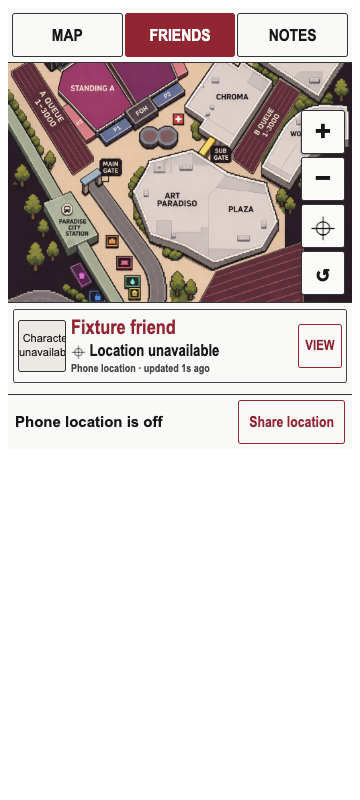
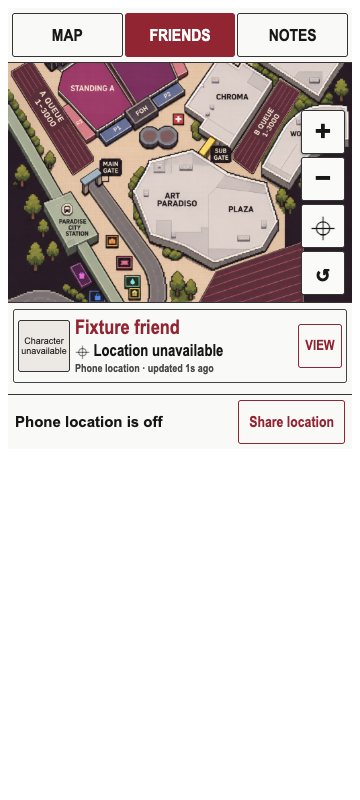
fix(venue): fix the 360 friend fallback and align the landmark gate

Changed region(s): [[0.0611, 0.375, 0.6111, 0.4688]]

diff --git a/frontend/src/features/paradise-city-map/ui/paradise-city-map.css b/frontend/src/features/paradise-city-map/ui/paradise-city-map.css
@@ -3,10 +3,10 @@
 .pc-map-tabs{display:flex;gap:2px;padding:5px 4px;flex-shrink:0;border-bottom:1.5px solid #333}.pc-map-tabs button{flex:1;min-width:0;font-size:18px}.pc-map-tabs button[aria-selected=true]{background:var(--pc-red);border-color:var(--pc-red);color:#fff}.pc-tab-panel{min-height:260px;display:flex;flex:1 0 auto;flex-direction:column}.pc-fixture-notice{padding:3px 7px;font-size:11px;line-height:14px;border-bottom:1px solid #8e8e8e;background:#f0ede5;flex-shrink:0}
 .pc-map-canvas{position:relative;flex:1;min-height:300px;isolation:isolate;border-bottom:1.5px solid #333;background:#292128}.pc-map-canvas--compact{flex:0 0 240px;min-height:190px;max-height:36vh}.pc-map-viewport{position:absolute;inset:0;overflow:auto;overscroll-behavior:contain;scrollbar-width:none;touch-action:pan-x pan-y;cursor:grab}.pc-map-viewport:active{cursor:grabbing}.pc-map-plane{position:relative;min-width:0;margin:auto}.pc-map-plane>img{display:block;width:100%;height:100%;max-width:none;user-select:none;pointer-events:none}.pc-map-controls{position:absolute;right:7px;bottom:7px;display:flex;flex-direction:column;gap:3px;z-index:2}.pc-map-controls button{width:44px;height:44px;min-height:44px;padding:0;background:#fafaf8;font-family:Arial,sans-serif;font-size:28px;line-height:1;box-shadow:0 1px 2px #2227}.pc-map-controls button:nth-child(n+4){font-size:23px}.pc-map-controls button:disabled{display:none}
 .pc-map-plane .pc-landmark,.pc-map-plane .pc-person-marker,.pc-map-plane .pc-note-marker{position:absolute;transform:translate(-50%,-70%);z-index:1;padding:0;background:transparent;border:0;box-shadow:none;min-width:44px;min-height:44px;overflow:visible}.pc-landmark>span:first-child{opacity:0;font-size:33px;color:#922532;text-shadow:1px 1px #fff,-1px -1px #fff}.pc-landmark .pc-marker-label{display:none}.pc-landmark:hover>span,.pc-landmark:focus-visible>span,.pc-landmark.is-selected>span{opacity:1}.pc-landmark:focus-visible .pc-marker-label,.pc-landmark.is-selected .pc-marker-label{display:block}.pc-marker-label{display:block;white-space:nowrap;margin:0 auto;padding:1px 5px;border:1px solid #222;border-radius:4px;width:max-content;max-width:180px;background:#fafaf8;color:#111;font-family:Roboto,Arial,sans-serif;font-size:12px;line-height:16px;font-weight:750}.pc-marker-portraits{display:flex;justify-content:center;align-items:flex-end;filter:drop-shadow(1px 1px 0 #fff) drop-shadow(-1px -1px 0 #fff);height:49px}.pc-marker-portraits>span{width:48px;height:48px;overflow:hidden}.pc-marker-portraits canvas,.pc-marker-portraits img{width:48px!important;height:48px!important;image-rendering:pixelated}.pc-marker-portraits--cluster>span{width:33px;margin-left:-7px}.pc-marker-portraits--cluster>span:first-child{margin-left:0}.pc-self-marker{pointer-events:none;min-width:44px}.pc-self-marker .pc-marker-portraits{width:52px;height:52px;border:3px double #111;border-radius:50%;background:#fff}.pc-map-plane .pc-note-marker{background:#fbfbf9;border:2px solid #222;border-radius:3px;min-width:44px;min-height:44px;padding:3px 6px;font:700 16px/22px Roboto,Arial,sans-serif}.pc-map-plane .pc-note-marker::after{content:'';position:absolute;left:15px;bottom:-8px;width:11px;height:11px;transform:rotate(45deg);background:#fbfbf9;border-right:2px solid #222;border-bottom:2px solid #222}.pc-map-plane .pc-note-marker.is-selected{border:3px solid #922532}.pc-map-plane .pc-note-marker:focus-visible{outline-offset:5px}
-.pc-sheet{flex:0 0 auto;min-width:0;padding:7px;border-top:1px solid #333;background:var(--pc-paper)}.pc-sheet>header{display:flex;align-items:center;justify-content:space-between;gap:5px;min-height:30px;margin-bottom:6px}.pc-sheet>header h2{font-size:20px}.pc-sheet>header>button{margin-left:auto;min-height:44px;height:44px;min-width:44px;padding:0;border:0;background:transparent;font:30px/1 Arial,sans-serif}.pc-sheet>header .pc-close{position:absolute;right:6px}.pc-sheet:has(.pc-friend-detail)>header{min-height:0;margin-bottom:0}.pc-friend-detail{display:flex;gap:12px;align-items:center;margin-bottom:7px;padding-right:12px}.pc-friend-detail p{margin-top:3px}.pc-friend-detail small{display:block;margin-top:3px}.pc-portrait{width:64px;height:64px;flex:0 0 64px;display:grid;place-items:center;overflow:hidden;border:1.5px solid #333;border-radius:3px;background:#ece8e3;font-size:11px;text-align:center}.pc-portrait canvas,.pc-portrait img{max-width:100%;max-height:100%;image-rendering:pixelated}.pc-portrait--large{width:80px;height:84px;flex-basis:80px}.pc-portrait--large canvas,.pc-portrait--large img{width:80px!important;height:80px!important}.pc-name{color:var(--pc-red);font-size:22px;line-height:1.1}.pc-actions{display:flex;gap:10px;margin-top:7px}.pc-actions>button{flex:1;min-width:0}.pc-place-picker{display:flex;align-items:center;gap:7px;margin:6px 0;font-size:15px}.pc-place-picker select{flex:1;min-width:0}.pc-sheet>label:not(.pc-place-picker){display:flex;gap:6px;align-items:center;margin-top:7px}.pc-sheet>label select{flex:1;min-width:0}
+.pc-sheet{flex:0 0 auto;min-width:0;padding:7px;border-top:1px solid #333;background:var(--pc-paper)}.pc-sheet>header{display:flex;align-items:center;justify-content:space-between;gap:5px;min-height:30px;margin-bottom:6px}.pc-sheet>header h2{font-size:20px}.pc-sheet>header>button{margin-left:auto;min-height:44px;height:44px;min-width:44px;padding:0;border:0;background:transparent;font:30px/1 Arial,sans-serif}.pc-sheet>header .pc-close{position:absolute;right:6px}.pc-sheet:has(.pc-friend-detail)>header{min-height:0;margin-bottom:0}.pc-friend-detail{display:flex;gap:12px;align-items:center;margin-bottom:7px;padding-right:12px}.pc-friend-detail p{margin-top:3px}.pc-friend-detail small{display:block;margin-top:3px}.pc-portrait{width:64px;height:64px;flex:0 0 64px;display:grid;place-items:center;overflow:hidden;border:1.5px solid #333;border-radius:3px;background:#ece8e3;font-size:11px;text-align:center}.pc-portrait-fallback{display:block;max-width:100%;max-height:100%;padding:1px;font-size:9px;line-height:10px;overflow-wrap:anywhere;text-align:center}.pc-portrait canvas,.pc-portrait img{max-width:100%;max-height:100%;image-rendering:pixelated}.pc-portrait--large{width:80px;height:84px;flex-basis:80px}.pc-portrait--large canvas,.pc-portrait--large img{width:80px!important;height:80px!important}.pc-name{color:var(--pc-red);font-size:22px;line-height:1.1}.pc-actions{display:flex;gap:10px;margin-top:7px}.pc-actions>button{flex:1;min-width:0}.pc-place-picker{display:flex;align-items:center;gap:7px;margin:6px 0;font-size:15px}.pc-place-picker select{flex:1;min-width:0}.pc-sheet>label:not(.pc-place-picker){display:flex;gap:6px;align-items:center;margin-top:7px}.pc-sheet>label select{flex:1;min-width:0}
 .pc-friends{padding:6px 5px;flex:0 0 auto}.pc-friend-row{display:flex;align-items:center;gap:7px;min-height:74px;padding:4px 6px;border:1px solid #444;border-radius:3px;margin-bottom:5px}.pc-friend-copy{min-width:0;flex:1}.pc-friend-copy .pc-friend-place{display:block;font-size:16px;line-height:20px;margin-top:2px}.pc-friend-copy small{display:block;font-size:12px;line-height:16px}.pc-friend-row>.pc-portrait{width:56px;height:56px;flex-basis:56px}.pc-friend-row>.pc-portrait canvas,.pc-friend-row>.pc-portrait img{width:56px!important;height:56px!important}.pc-friend-row>button{font-size:14px;color:var(--pc-red);border-color:var(--pc-red);padding:6px}.pc-friend-row .pc-name-button{display:block;width:100%;padding:0;min-height:44px;min-width:0;border:0;background:transparent;text-align:left}.pc-cluster-person{display:flex;align-items:center;gap:8px;width:100%;margin-top:5px}.pc-cluster-person canvas,.pc-cluster-person img{width:48px!important;height:48px!important}.pc-location-requests{padding:10px 6px;border-top:1px solid #444}.pc-location-requests h2{font-size:20px;margin:0 0 8px}.pc-location-requests article{padding:8px 0}.pc-location-requests p{margin:0 0 6px;overflow-wrap:anywhere}
 .pc-note-card{display:grid;grid-template-columns:repeat(3,minmax(0,1fr));gap:4px;padding:4px;border:1px solid #555;border-radius:3px;margin-bottom:6px}.pc-note-card>.pc-note-heading,.pc-note-card>.pc-note-reply{grid-column:1/-1}.pc-note-card>.pc-actions{grid-column:1/-1;margin-top:0;gap:6px}.pc-note-card>.pc-actions>button{font-size:16px;padding:7px 3px}.pc-note-card:has(>button)>.pc-actions{grid-column:1/3;grid-row:2}.pc-note-card>button{grid-column:3;grid-row:2;font-size:14px;padding:7px 3px}.pc-note-heading,.pc-note-reply{display:flex;gap:8px;align-items:flex-start}.pc-note-heading>div:last-child{flex:1;min-width:0;font-size:16px;line-height:20px}.pc-note-author{display:flex;align-items:baseline;flex-wrap:wrap;gap:2px 8px}.pc-note-heading p{overflow-wrap:anywhere;margin:2px 0;font-size:16px;line-height:20px}.pc-note-heading .pc-name{font-size:19px}.pc-note-heading small{font-size:13px}.pc-note-reply{border-top:1px solid #aaa;margin:8px 0 0 18px;padding-top:7px;font-size:15px}.pc-note-reply .pc-portrait{width:44px;height:44px;flex-basis:44px}.pc-note-reply strong{font-size:14px}.pc-note-reply p{margin-top:3px;overflow-wrap:anywhere}.pc-composer>header{position:relative;min-height:30px;padding-right:44px}.pc-composer>header h2{font-size:26px}.pc-composer>header>button{position:absolute;right:0;top:-7px}.pc-composer textarea{width:100%;height:100px;min-height:100px;resize:vertical;display:block;border:1.5px solid #333;border-radius:3px;padding:9px;font-size:18px;line-height:24px;background:#fff}.pc-composer>label{display:block!important}.pc-composer .pc-place-picker{display:flex!important}.pc-composer fieldset{border:0;padding:0;display:flex;gap:5px;align-items:center;margin:5px 0;min-width:0}.pc-composer legend{float:left;width:105px;font-size:16px;font-weight:650;padding:0;line-height:44px}.pc-composer fieldset button{flex:1;min-width:0;font-size:16px;padding:7px 3px}.pc-composer button[aria-pressed=true]{background:#171717;color:#fff}
 .pc-sharing{display:flex;align-items:center;justify-content:space-between;gap:7px;flex-shrink:0;padding:5px 7px;border-top:1px solid #333;min-height:52px}.pc-sharing strong{font-size:15px;line-height:18px}.pc-sharing button{min-height:44px;height:44px;font-size:15px;border-color:var(--pc-red);color:var(--pc-red)}.pc-sharing-consent{padding:10px;border-top:1px solid #333;font-size:16px}.pc-sharing-consent label{display:flex;align-items:center;gap:8px;margin:8px 0;min-height:44px}.pc-sharing-consent input{width:22px;height:22px;accent-color:#922532}.pc-notice{padding:6px 8px;border-top:1px solid #aaa;font-size:14px;line-height:18px}.pc-meeting-slot{min-width:0;flex:0 0 auto}
-@media(max-width:370px){.pc-friend-row{gap:5px;padding:6px 4px}.pc-friend-row>.pc-portrait{width:48px;height:52px;flex-basis:48px}.pc-name{font-size:20px}.pc-friend-copy small{font-size:11px}.pc-composer legend{width:90px;font-size:14px}.pc-composer fieldset button{font-size:14px}.pc-map-tabs button{font-size:17px}.pc-actions{gap:7px}}
+@media(max-width:370px){.pc-friend-row{gap:5px;padding:6px 4px}.pc-friend-row>.pc-portrait{width:52px;height:52px;flex-basis:52px}.pc-name{font-size:20px}.pc-friend-copy small{font-size:11px}.pc-composer legend{width:90px;font-size:14px}.pc-composer fieldset button{font-size:14px}.pc-map-tabs button{font-size:17px}.pc-actions{gap:7px}}
 @media(max-height:500px){.pc-map-canvas{min-height:200px}.pc-map-canvas--compact{min-height:160px;max-height:none;flex-basis:160px}.pc-map{min-height:250px}.pc-map-controls{flex-direction:row;gap:2px;right:5px;bottom:5px}.pc-map-controls button{width:44px;height:44px;font-size:24px}}
 @media(forced-colors:active){.pc-map button{border:2px solid ButtonText}.pc-map button[aria-selected=true],.pc-map button[aria-pressed=true]{outline:2px solid Highlight}.pc-map-plane img{forced-color-adjust:none}.pc-marker-label{background:Canvas;color:CanvasText}}

diff --git a/frontend/src/app/__tests__/venue-shell-ports/production.test.ts b/frontend/src/app/__tests__/venue-shell-ports/production.test.ts
@@ -45,7 +45,7 @@ const stops: (() => void)[] = []
 beforeEach(() => { vi.stubGlobal('crypto', webcrypto) })
 afterEach(() => { for (const stop of stops.splice(0).reverse()) stop(); vi.restoreAllMocks(); vi.unstubAllGlobals() })
 
-async function fixture(options: { omitPeople?: boolean } = {}) {
+async function fixture(options: { omitPeople?: boolean; denyLandmarks?: boolean } = {}) {
   const bootstrap = await checkedBootstrap()
   const participant = (bootstrap.document as { participant?: { profile?: { avatar?: unknown } } } | undefined)?.participant
   const auth = createSessionController({ eventId, fetch: async () => { throw Error('No live transport') },
@@ -59,7 +59,7 @@ async function fixture(options: { omitPeople?: boolean } = {}) {
   const http = { async request<T>(input: HttpRequest<T>): Promise<HttpResult<T>> {
     calls.push(input.path)
     const value = input.path.endsWith('/venue/location') ? snapshot()
-      : input.path.endsWith('/venue/landmarks') ? landmarkList()
+      : input.path.endsWith('/venue/landmarks') ? (() => { if (options.denyLandmarks) throw Error('Reviewed landmark authority denied'); return landmarkList() })()
         : input.path.includes('/people/') ? { user_id: input.path.split('/').at(-1), display_name: 'Fixture friend', bio: null, avatar: participant?.profile?.avatar }
           : (() => { throw Error(`Unexpected request ${input.path}`) })()
     return { data: input.decode(value, { scope, status: 200, path: input.path }), scope }
@@ -100,6 +100,19 @@ it('names friends only from the actor snapshot and an authorized public profile'
   expect(await ports.start(f.lifetime.signal)).toBe(true)
   await vi.waitFor(() => expect(ports.capabilities.read()?.friends[0]?.displayName).toBe('Fixture friend'))
   expect(ports.capabilities.read()?.friends[0]?.userId).toBe(friendId)
+})
+
+it('keeps the independent location capability when reviewed landmark authority is denied', async () => {
+  const f = await fixture({ denyLandmarks: true })
+  expect(await f.sources.loadLandmarks(f.lifetime.signal)).toBe(false)
+  expect(f.sources.meetingPlaces.size).toBe(0)
+  const ports = production(f.sources)
+  stops.push(() => ports.dispose())
+  expect(await ports.start(f.lifetime.signal)).toBe(true)
+  const state = ports.capabilities.read()
+  expect(state).not.toBeNull()
+  expect(state?.rights.checkIn).toEqual([])
+  expect(state?.rights.postNote).toEqual([])
 })
 
 it('fails closed when no reviewed friend identity source is available', async () => {

diff --git a/frontend/src/app/venue-entry/ParadiseCityMapPanel.tsx b/frontend/src/app/venue-entry/ParadiseCityMapPanel.tsx
@@ -28,7 +28,7 @@ export function ParadiseCityMapPanel({ renderPortrait }: {
   const current = useContext(Context), owner = useReviewedCharacterOwner()
   const portrait = renderPortrait ?? ((person, size) => owner?.isCurrent()
     ? <ReviewedCharacterView owner={owner} config={person.avatar} label={`${person.displayName}'s character`} size={size} />
-    : <span role="img" aria-label={`${person.displayName}'s character unavailable`}>Character unavailable</span>)
+    : <span role="img" aria-label={`${person.displayName}'s character unavailable`} className="pc-portrait-fallback">Character unavailable</span>)
   return current ? <ParadiseCityMap controller={current.controller} renderPortrait={portrait} />
     : <p role="status">The venue map is unavailable until current access and siteplan inputs are supplied.</p>
 }
